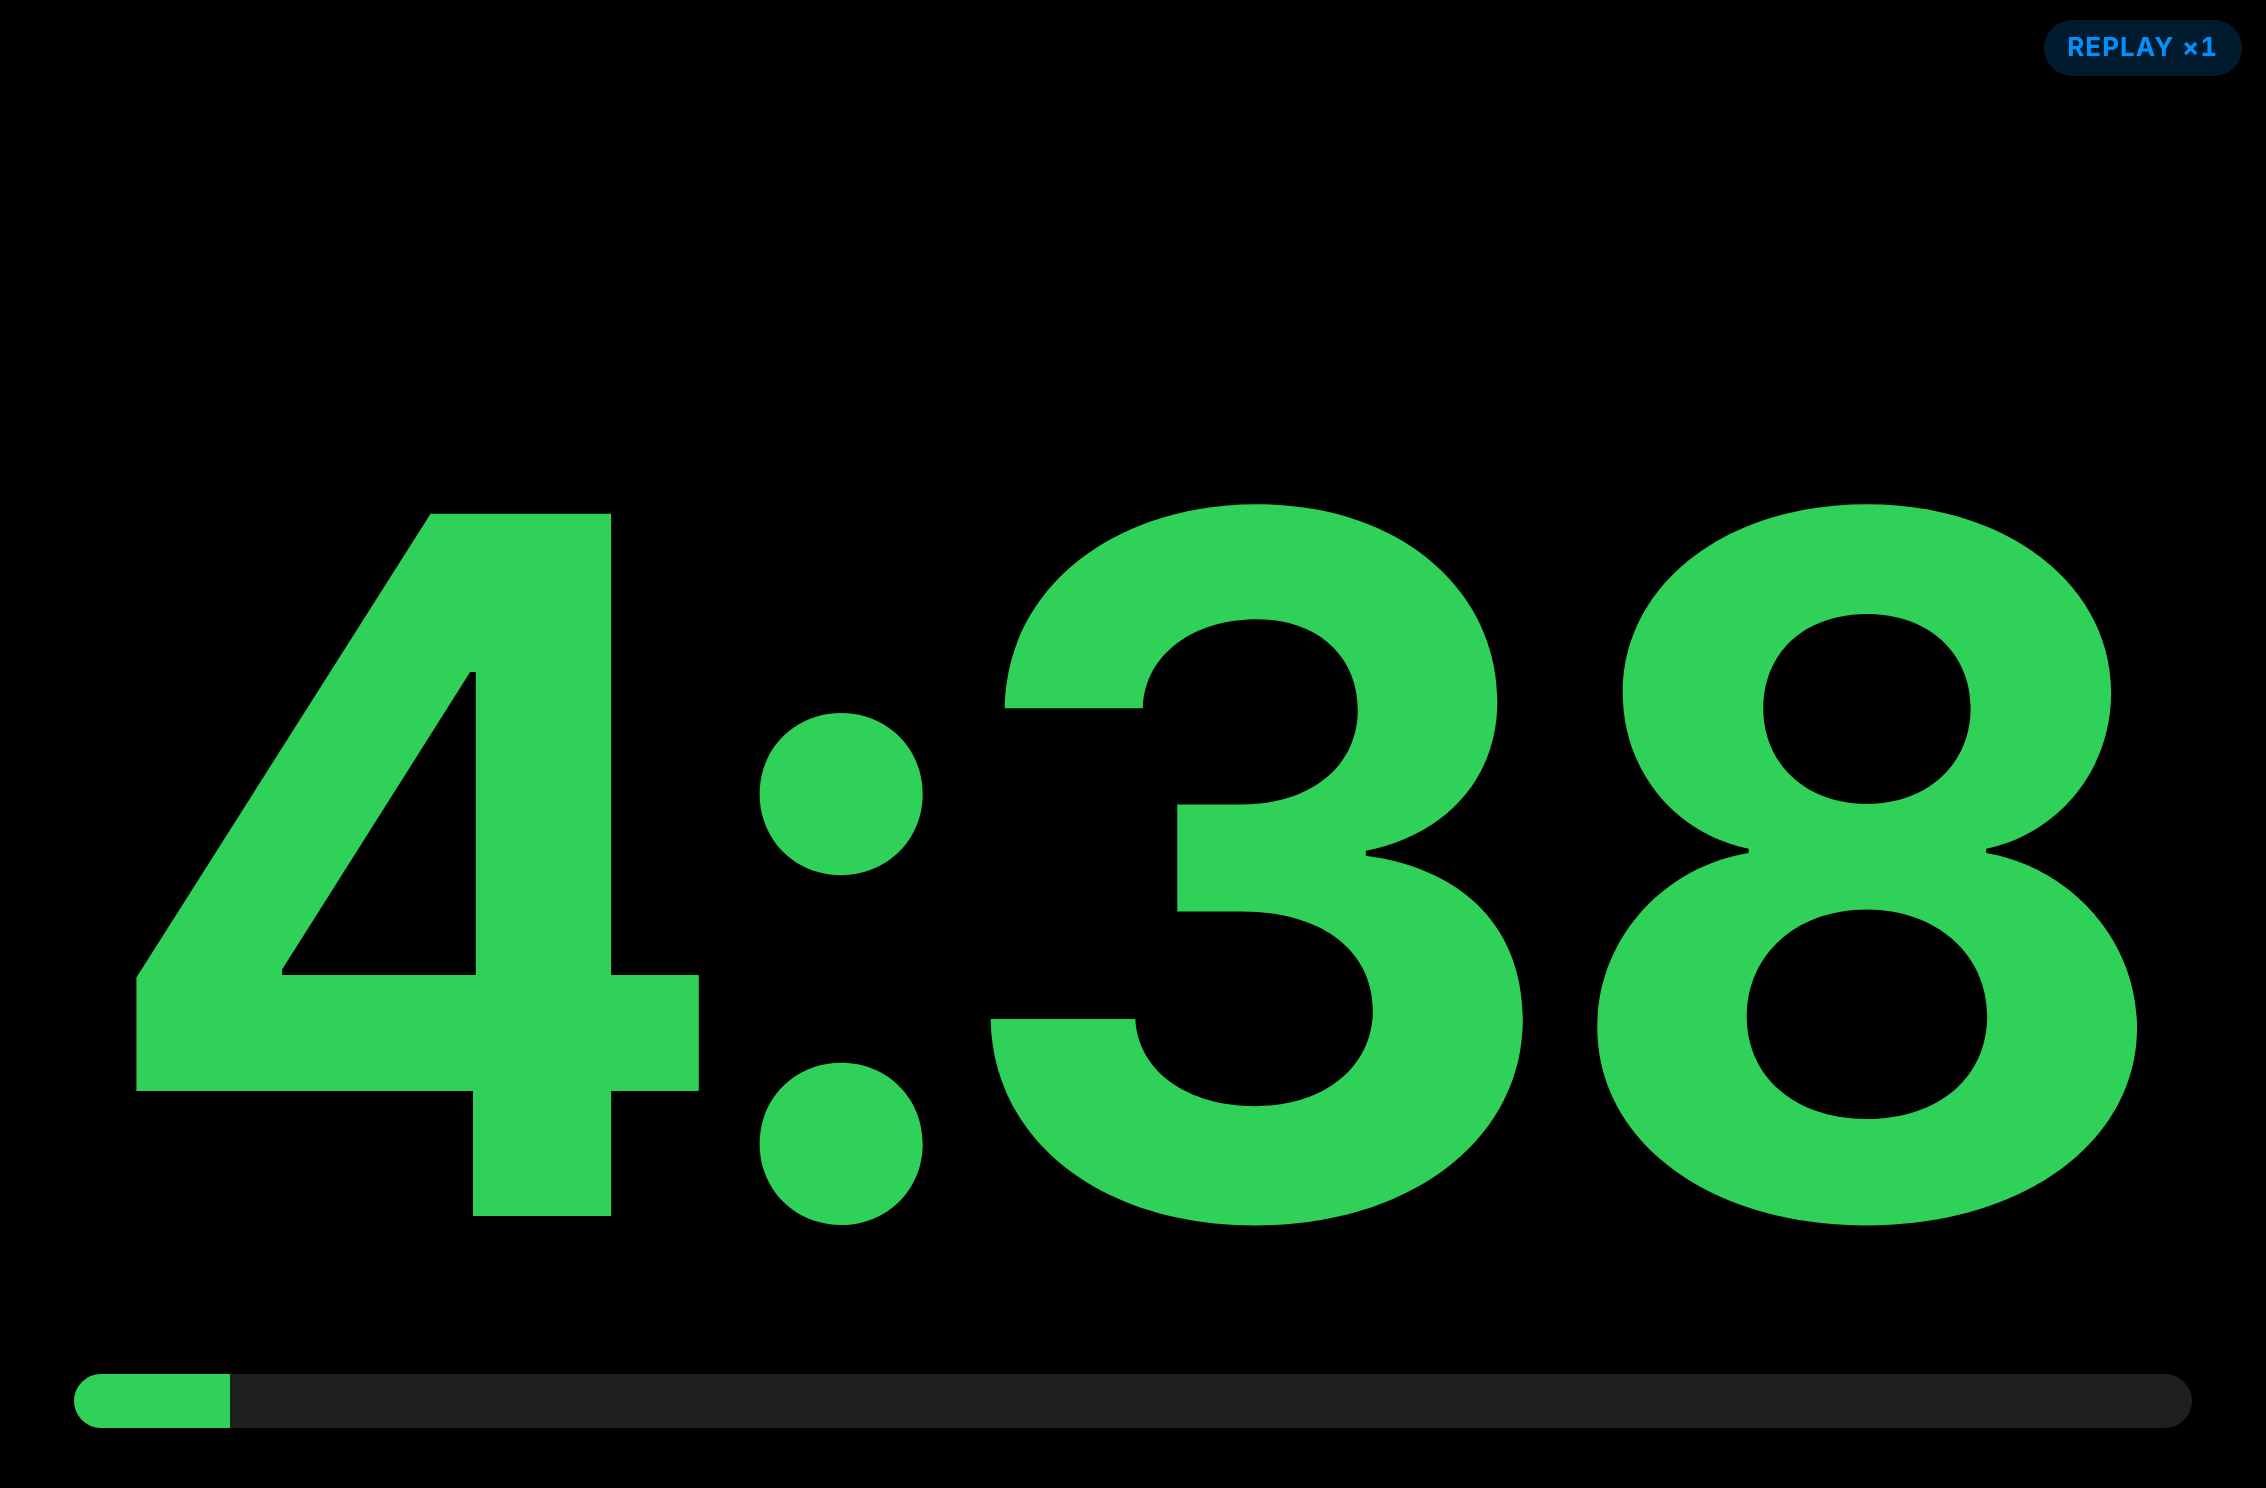
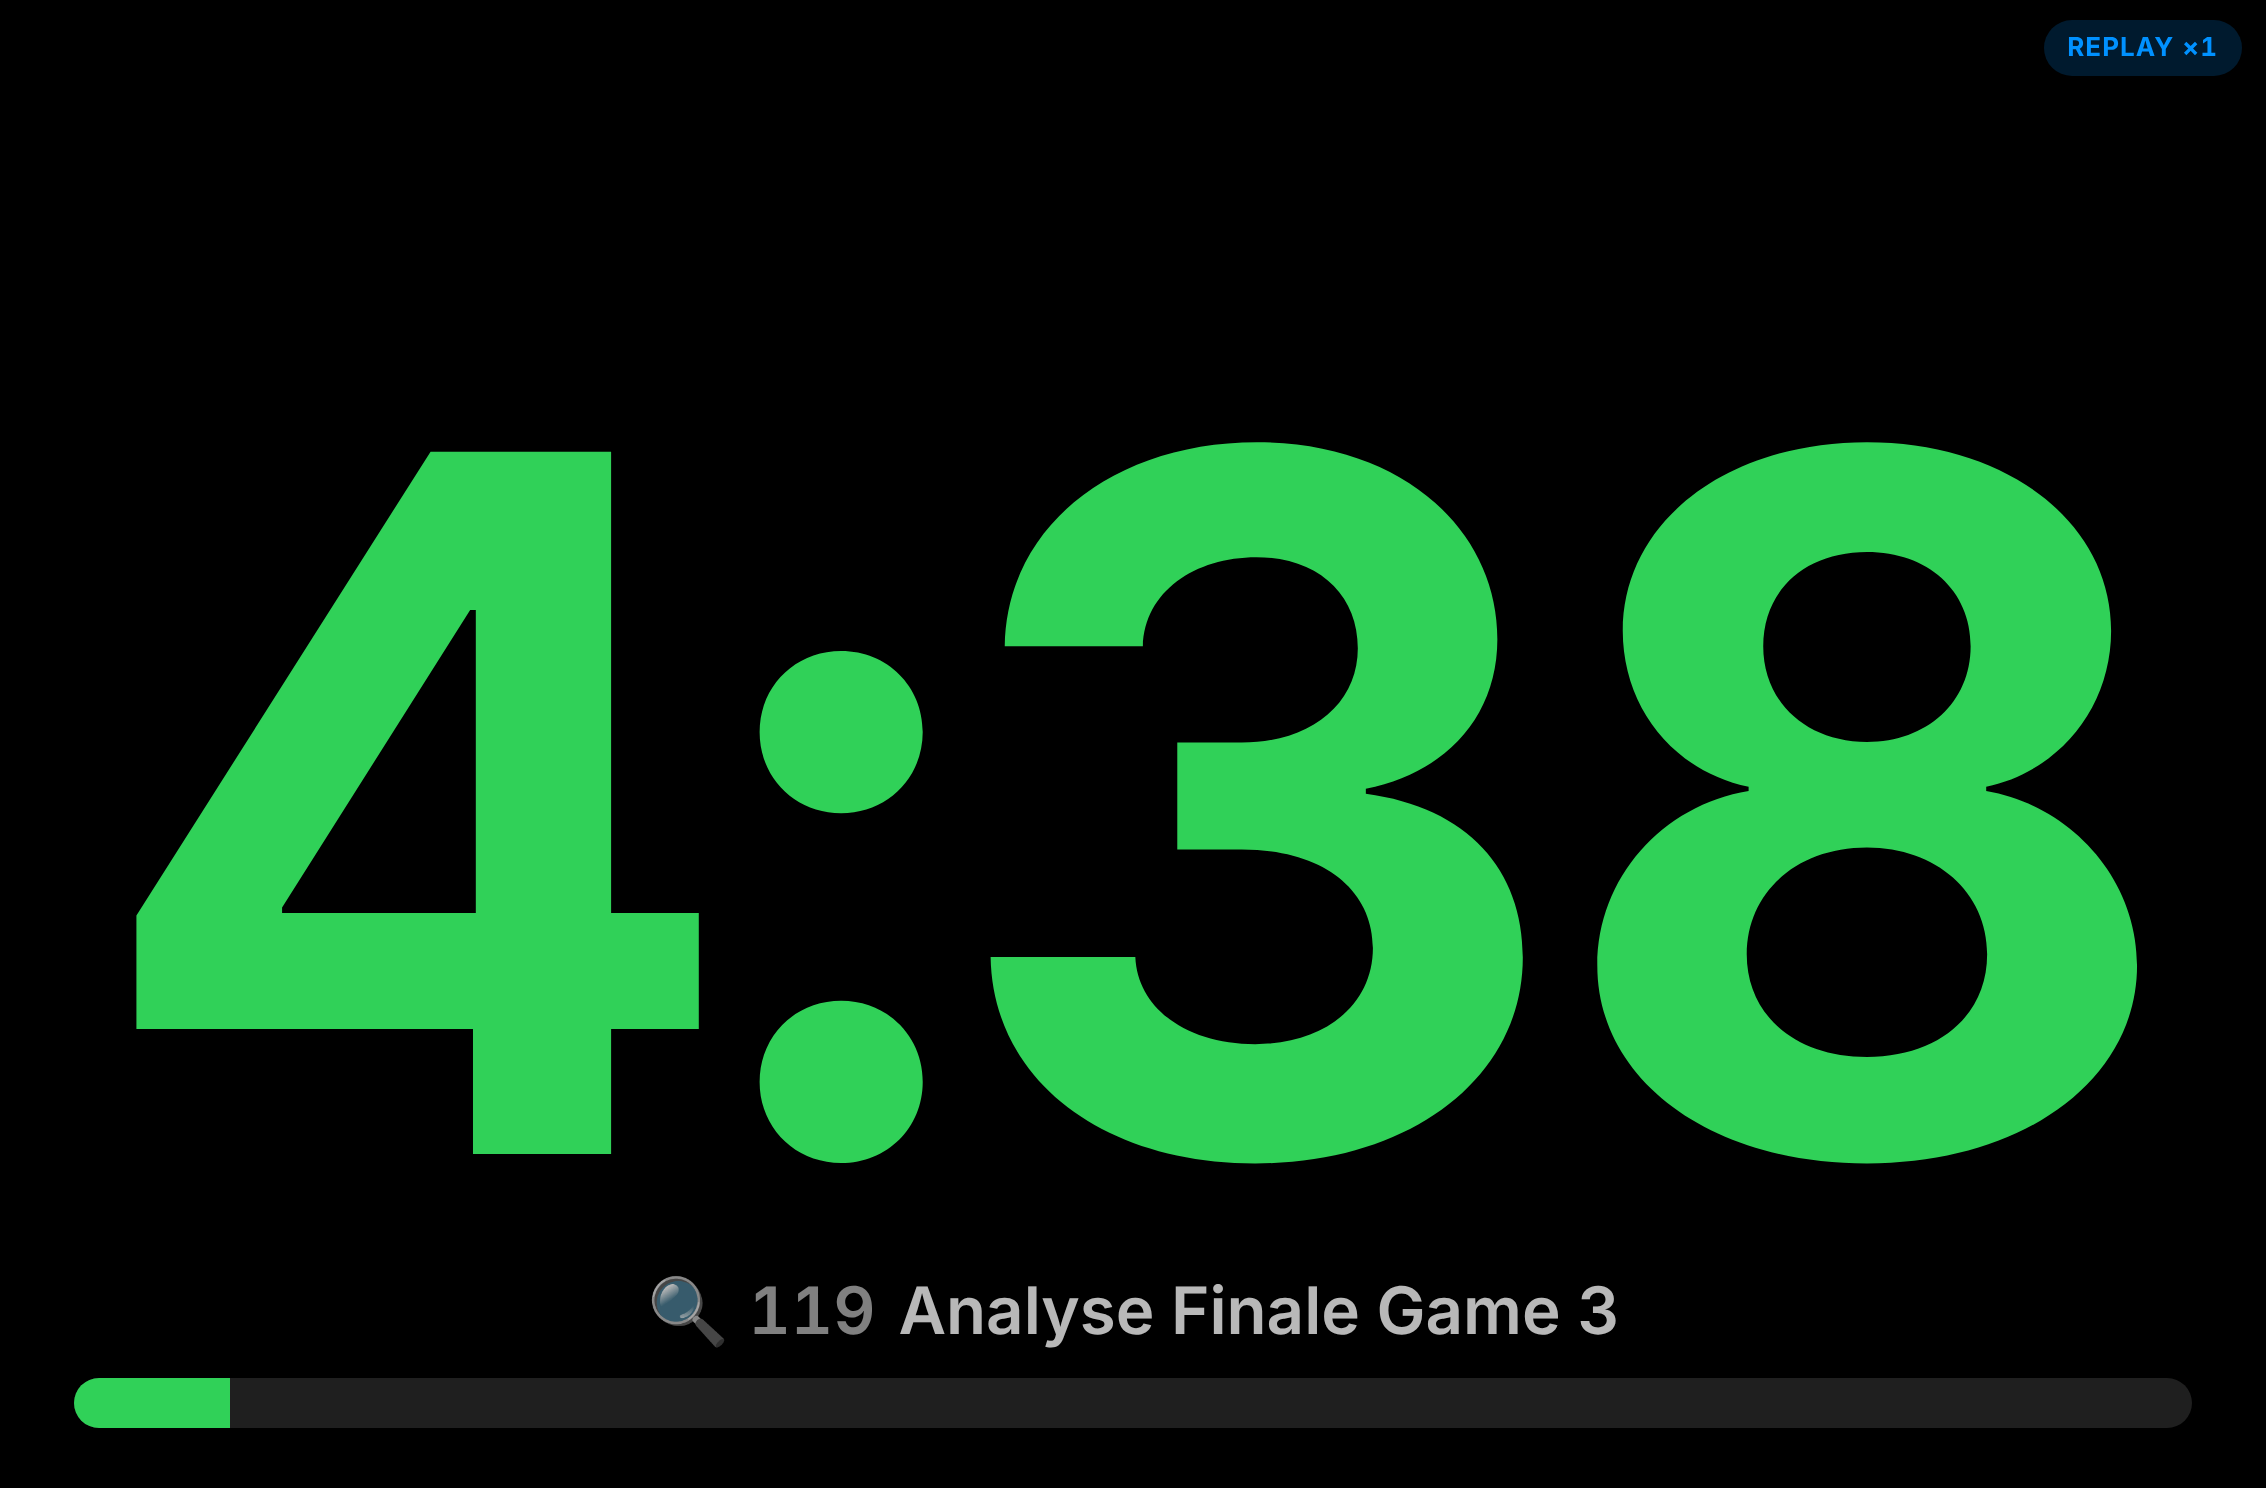
Schild: aktueller Cue klein unter den Ziffern
- Emoji, Cue-Nummer und Titel unter der Restzeit, in allen Zuständen
  außer Leerlauf, auch mit Custom Text und im Hochformat
- Screenshots neu, Version 1.5.1

Claude-Session: https://claude.ai/code/session_01Pd9BMgvoYiwa5gziSvDGUD

diff --git a/public/js/views/sign.js b/public/js/views/sign.js
@@ -22,6 +22,8 @@ export class SignView {
     this.msgGif = root.querySelector('#sign-msg-gif');
     this.msgBox = root.querySelector('#sign-msg-textbox');
     this.msgText = root.querySelector('#sign-msg-text');
+    this.cueEl = root.querySelector('#sign-cue');
+    this.cueKey = null;
     this.msgKey = null;
     this.lastStage = null;
     this.pulseTimer = null;
@@ -120,6 +122,20 @@ export class SignView {
     if (this.digits.textContent !== text) this.digits.textContent = text;
     if (sample) fitText(this.digits, this.box, sample, { heightFactor: 1.3, widthFactor: 0.97 });
     this.digits.setAttribute('aria-label', ev.digitsMs != null ? `${ev.word ? ev.word + ', ' : ''}${formatClock(ev.digitsMs, ev.countUp)}` : text);
+
+    // Aktueller Cue klein unter den Ziffern (Symbol, Nummer, Titel)
+    const cue = state === 'idle' ? null : vm.state?.cue;
+    const cueKey = cue ? `${cue.id}|${cue.emoji}|${cue.number}|${cue.title}` : '';
+    if (cueKey !== this.cueKey) {
+      this.cueKey = cueKey;
+      this.cueEl.replaceChildren();
+      if (cue) {
+        if (cue.emoji) this.cueEl.append(Object.assign(document.createElement('span'), { className: 'emo', textContent: cue.emoji }));
+        if (cue.number != null) this.cueEl.append(Object.assign(document.createElement('span'), { className: 'num', textContent: String(cue.number) }));
+        this.cueEl.append(document.createTextNode(cue.title || ''));
+      }
+      delete this.digits.dataset.fitKey; // Platz für die Ziffern hat sich geändert
+    }
 
     // Balken
     let p = 0;

diff --git a/public/css/app.css b/public/css/app.css
@@ -1580,7 +1580,7 @@ dialog.text-sheet {
     max(env(safe-area-inset-left), 5vmin);
   display: grid;
   grid-template-columns: minmax(0, 1fr);
-  grid-template-rows: 22fr 70fr 4fr;
+  grid-template-rows: 22fr 70fr auto 4fr;
   row-gap: 2vmin;
 }
 .sign-top {
@@ -1629,7 +1629,32 @@ dialog.text-sheet {
 }
 /* Custom Text auf dem Schild: Nachricht groß, Zeit kleiner darunter */
 .sign.has-msg .sign-inner {
-  grid-template-rows: 11fr 55fr 28fr 4fr;
+  grid-template-rows: 11fr 55fr 28fr auto 4fr;
+}
+/* Aktueller Cue klein unter den Ziffern, damit der Moderator sieht, wo die Show steht */
+.sign-cue {
+  min-width: 0;
+  text-align: center;
+  font: 600 clamp(18px, 4.4vmin, 46px)/1.15 var(--font);
+  color: rgb(255 255 255 / 0.72);
+  white-space: nowrap;
+  overflow: hidden;
+  text-overflow: ellipsis;
+}
+.sign-cue:empty {
+  display: none;
+}
+.sign-cue .num {
+  color: rgb(255 255 255 / 0.5);
+  font-variant-numeric: tabular-nums;
+  margin-right: 0.35em;
+}
+.sign-cue .emo {
+  margin-right: 0.3em;
+}
+.sign[data-state='over'] .sign-cue,
+.sign[data-state='cut'] .sign-cue {
+  color: rgb(255 255 255 / 0.9);
 }
 .editor b,
 .sign-msg-text b {

diff --git a/public/index.html b/public/index.html
@@ -162,6 +162,7 @@
         <div class="sign-box" id="sign-box">
           <span class="sign-digits" id="sign-digits" role="timer" aria-live="off"></span>
         </div>
+        <div class="sign-cue" id="sign-cue"></div>
         <div class="sign-bar" aria-hidden="true"><div class="sign-bar-fill" id="sign-bar"></div></div>
       </div>
       <div class="sign-status" id="sign-status"></div>

diff --git a/public/sw.js b/public/sw.js
@@ -1,5 +1,5 @@
 // Service Worker: App-Hülle offline verfügbar, API und WebSocket nie aus dem Cache.
-const VERSION = 'al-1.5.0';
+const VERSION = 'al-1.5.1';
 const SHELL = [
   '/',
   '/index.html',

diff --git a/README.md b/README.md
@@ -114,6 +114,8 @@ GIFs kommen ausschließlich von Giphy und laufen über das offizielle [Giphy-SDK
 
 Eine Warnstufe erscheint nur, wenn sie höchstens die halbe Cue-Länge beträgt. Ein 3-min-Cue zeigt also 1:00 und 0:30, ein 15-s-Cue nur den Überzug. Ist auf dem iPad „Bewegung reduzieren“ aktiv, entfällt das Pulsieren.
 
+Unter den Ziffern steht klein der aktuelle Cue mit Emoji, Nummer und Titel, damit der Moderator sieht, wo die Show gerade steht.
+
 Die Ziffern wachsen, je knapper die Zeit wird: MM:SS ab 10 min, M:SS darunter, in der letzten Minute nur noch Sekunden. `fitText` misst die Schrift und füllt die verfügbare Breite bzw. Höhe.
 
 ## Konfiguration
